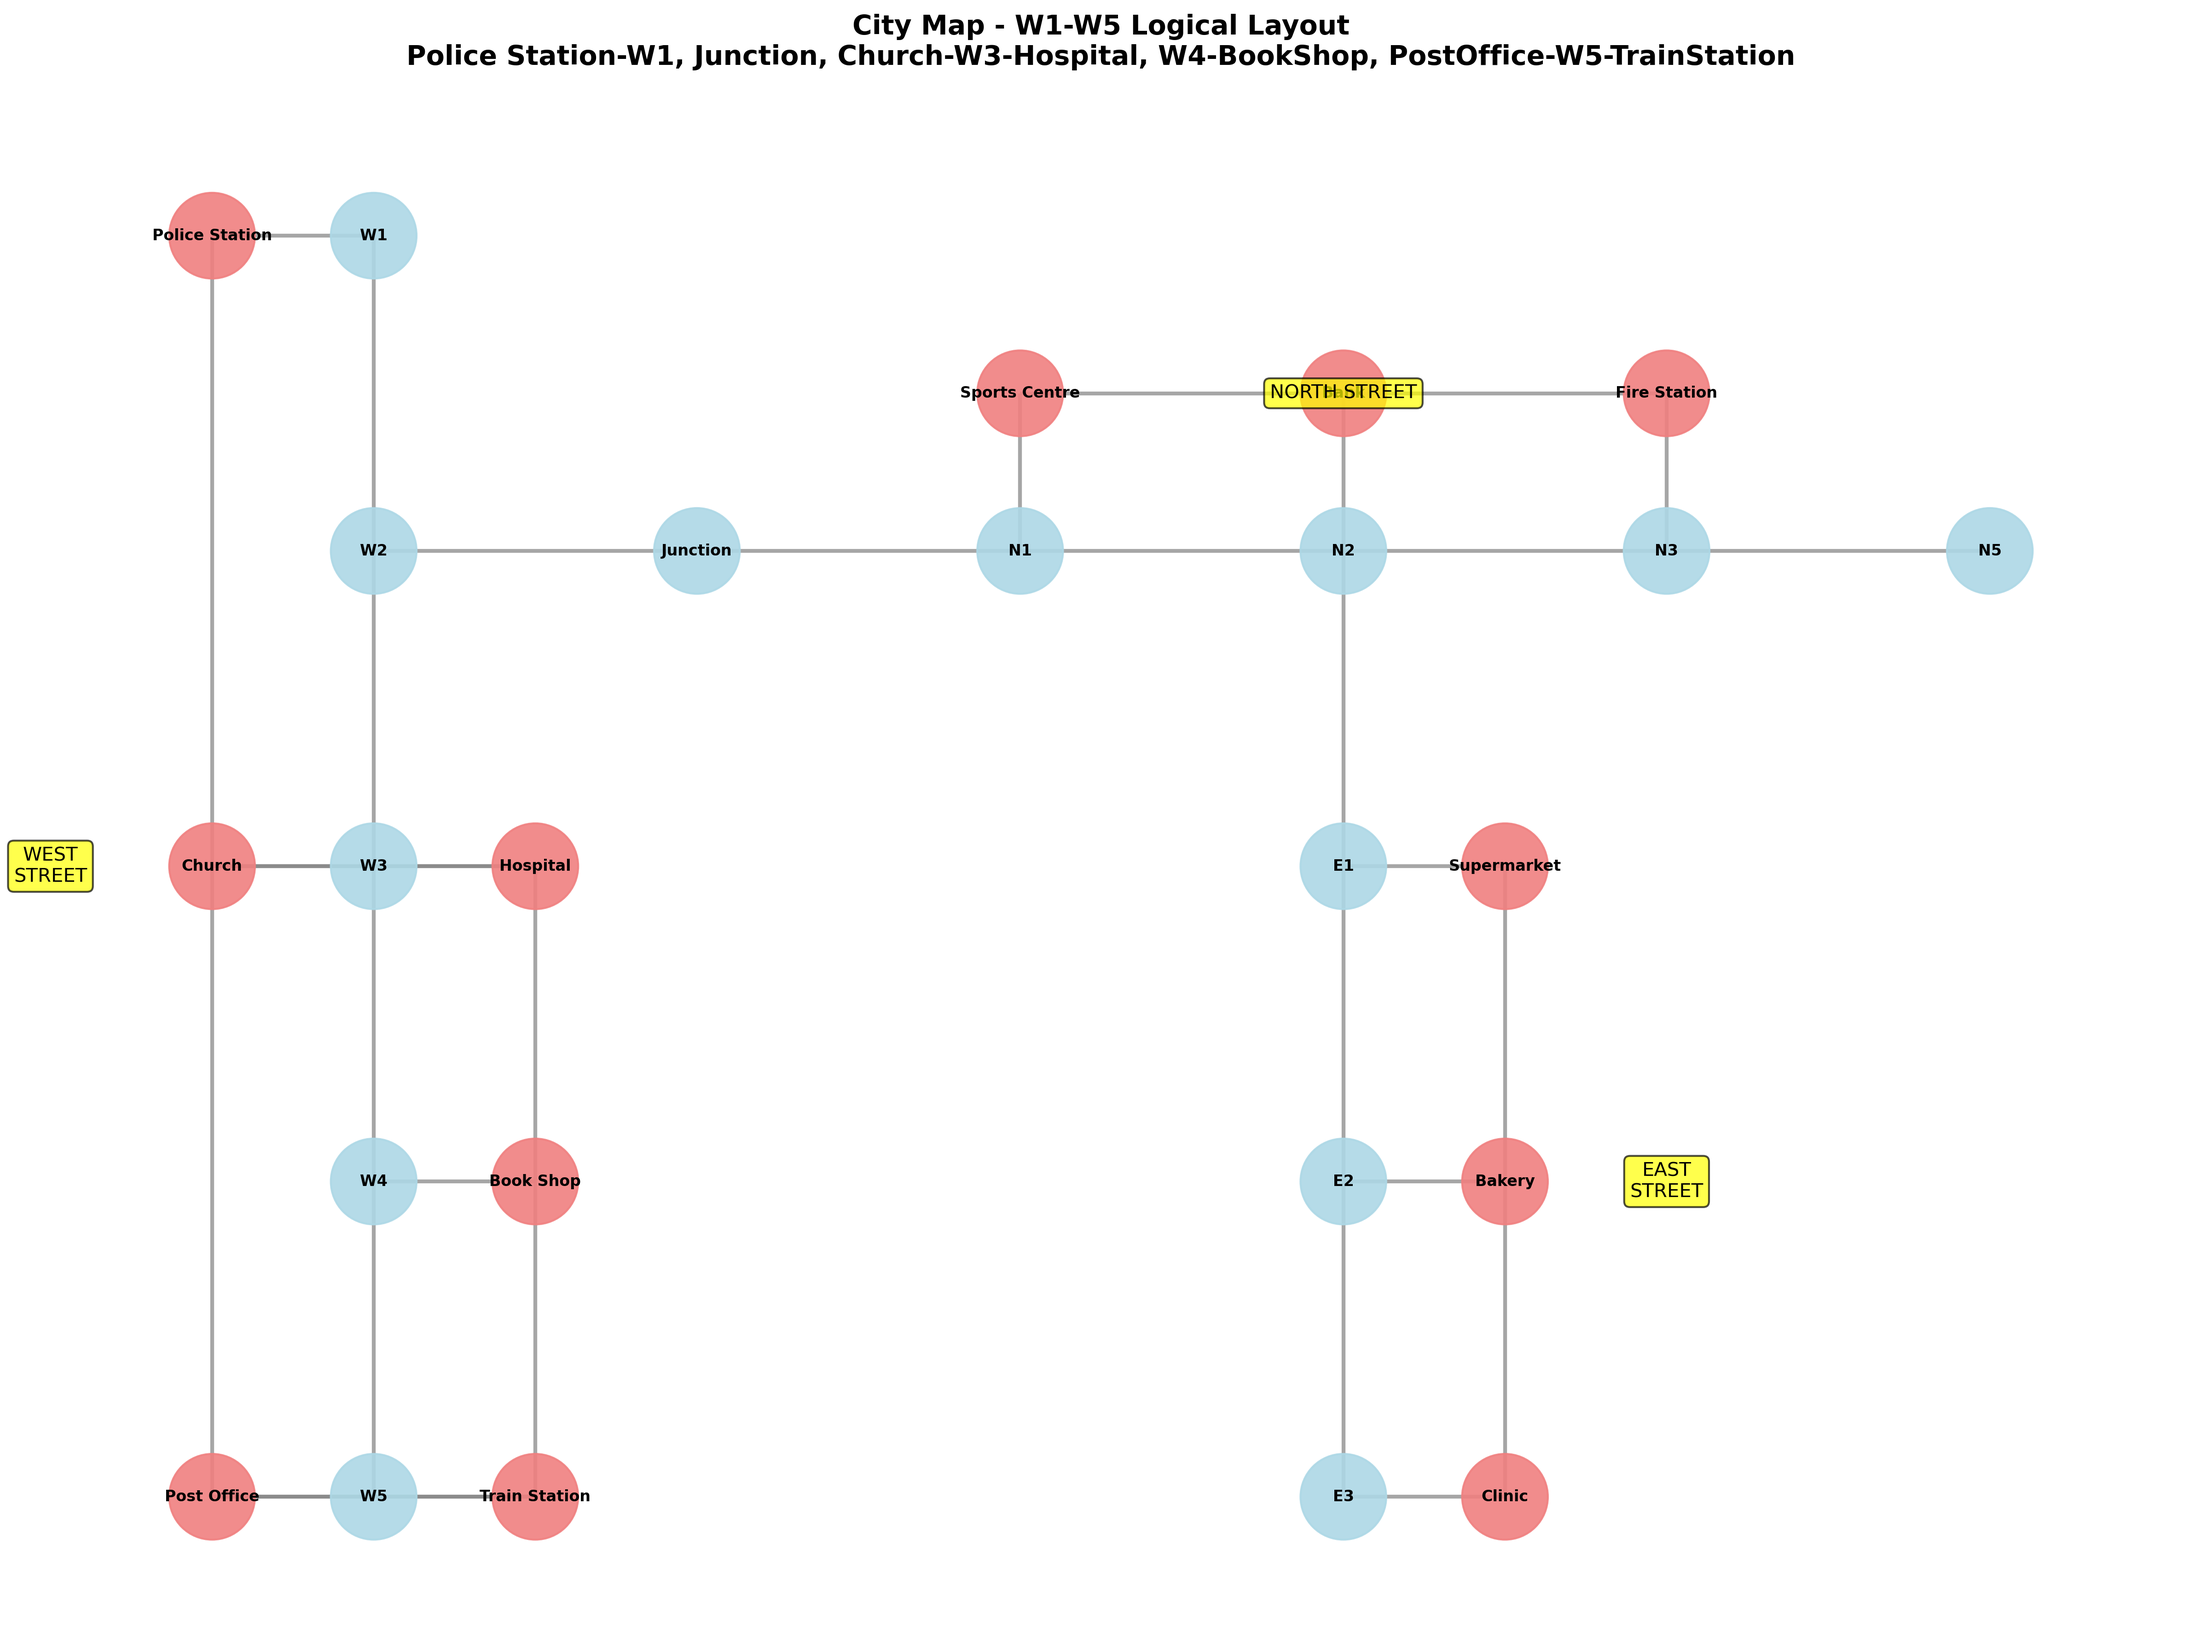
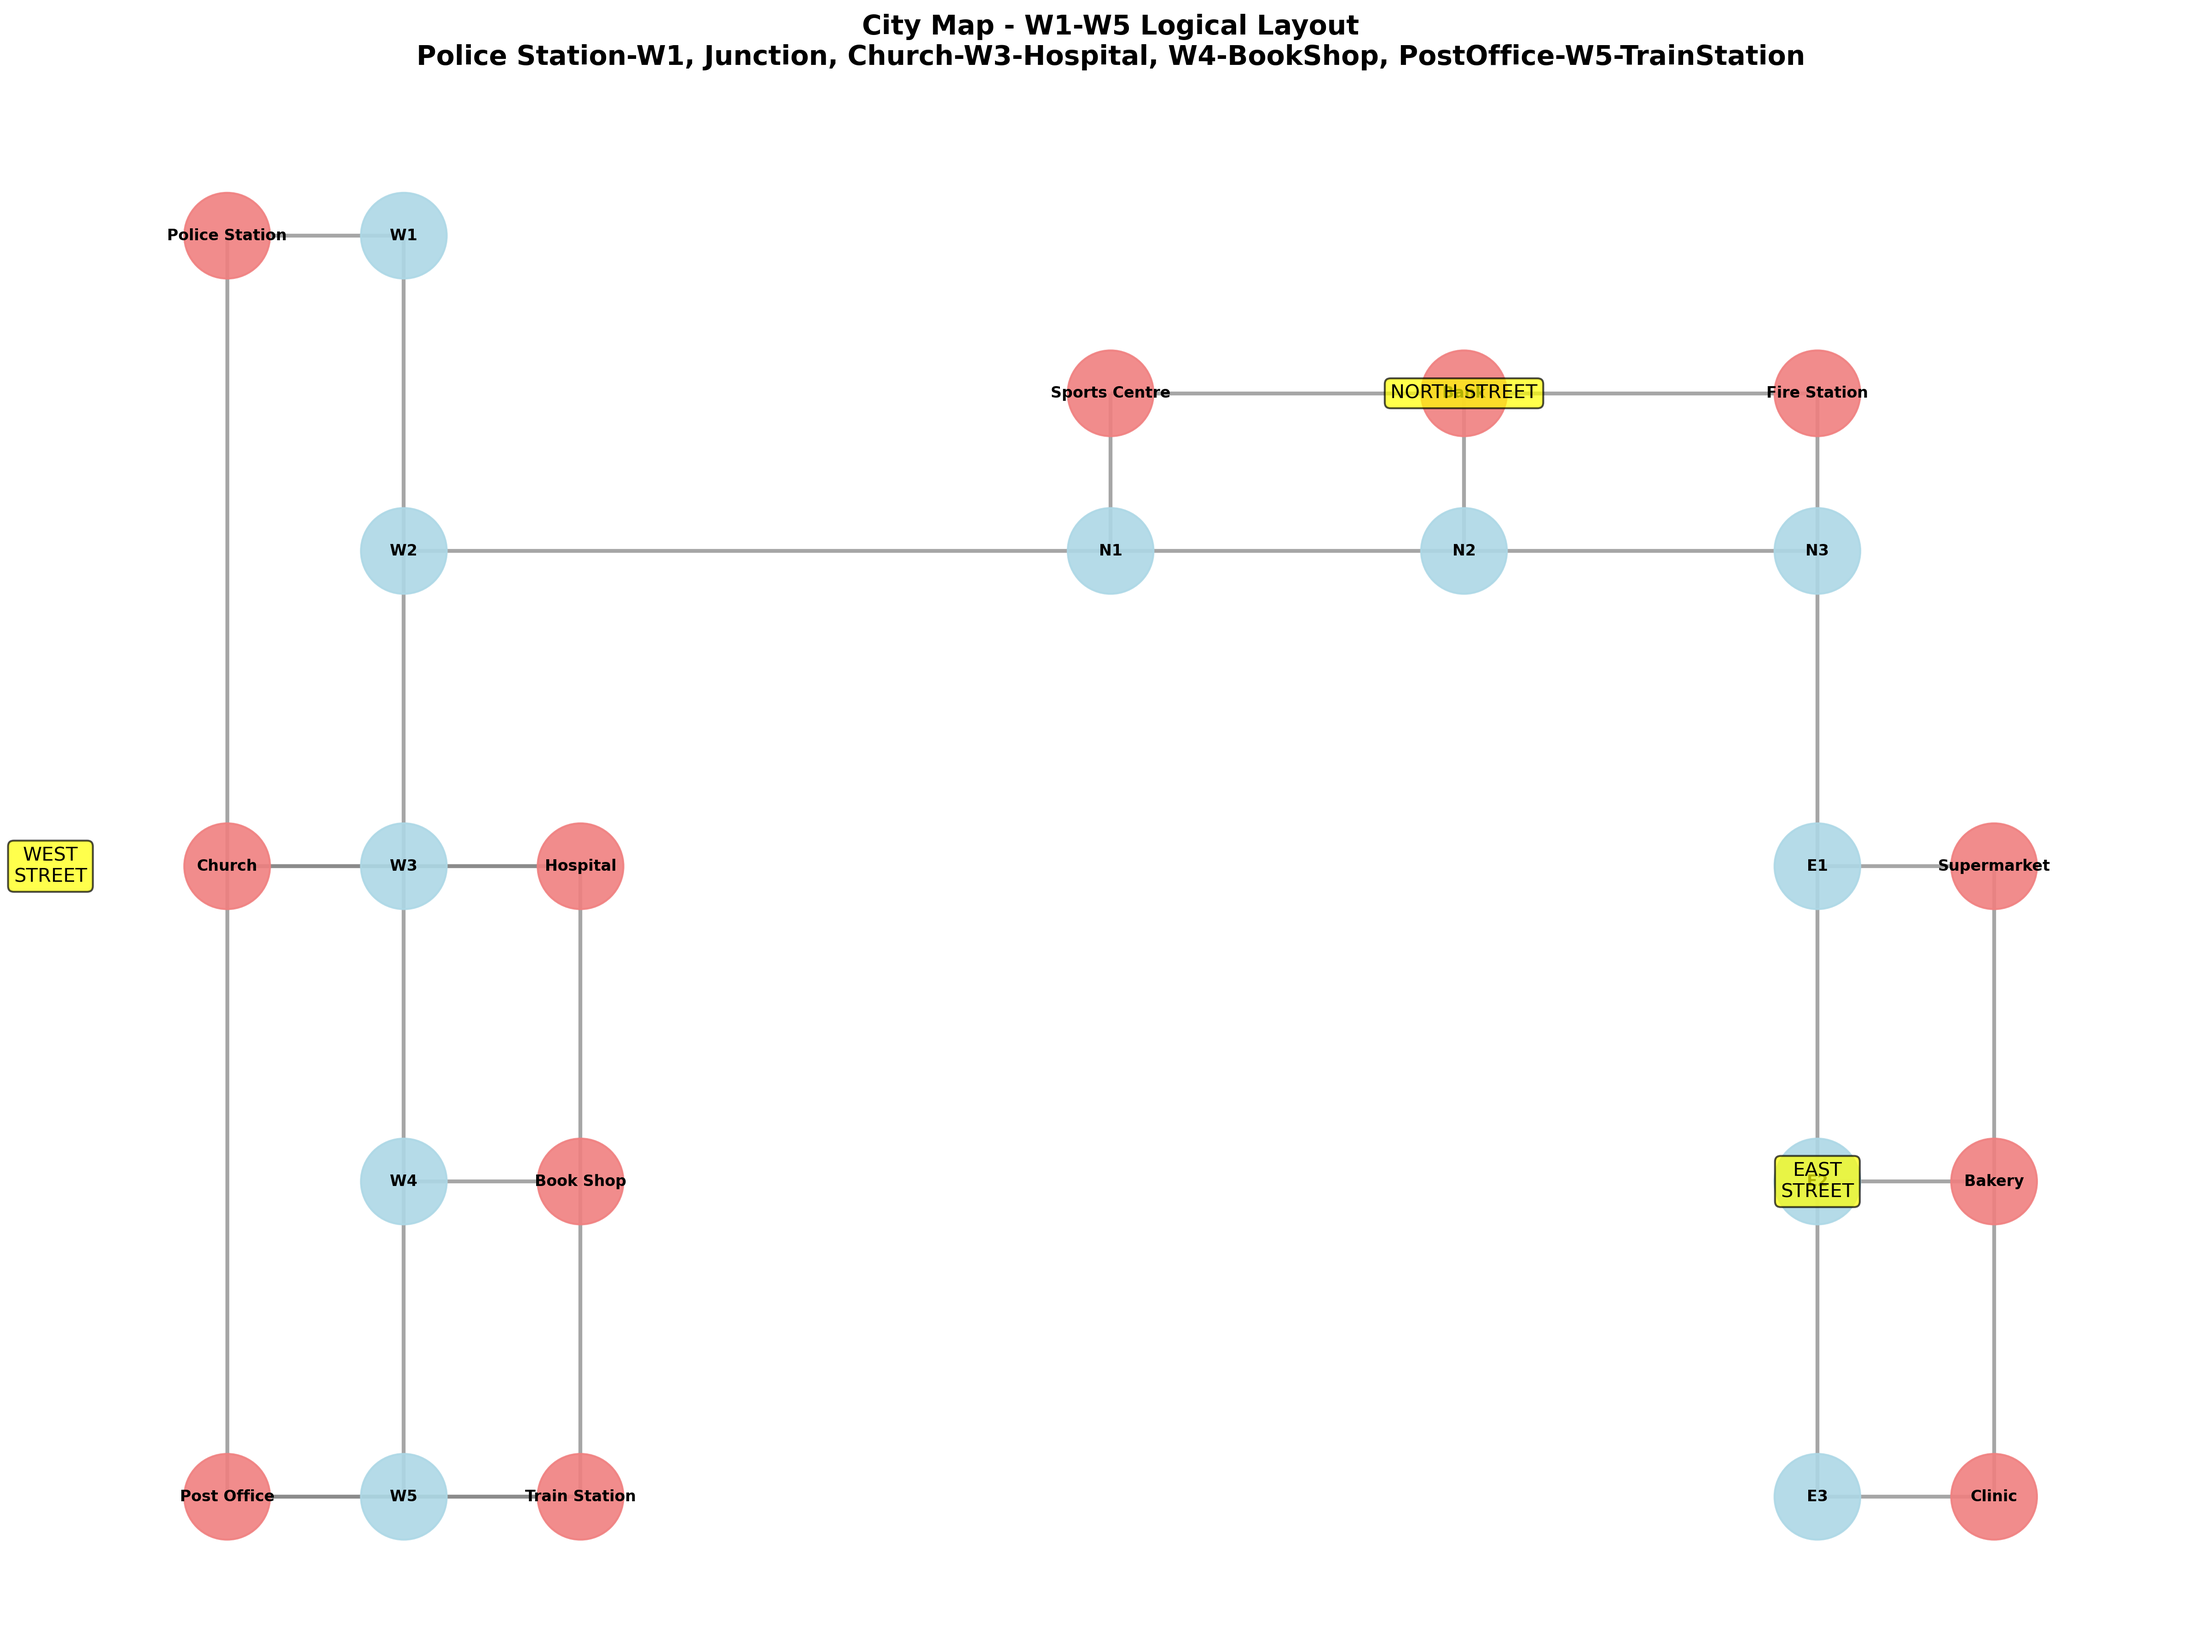
update

diff --git a/services/ToolsServer/Path/city_map.py b/services/ToolsServer/Path/city_map.py
@@ -38,66 +38,42 @@ def create_city_map():
         "Supermarket",
         "Bakery",
         "Clinic",
-        # Junction (12)
-        "Junction",
-        # West Street (13-17): W1 (North) → W2 → W3 → W4 → W5 (South)
-        "W1",
-        "W2",
-        "W3",
-        "W4",
-        "W5",
-        # North Street (18-21): N1 (West) → N2 → N3 → N5 (East)
-        "N1",
-        "N2",
-        "N3",
-        "N5",
-        # East Street (22-24): E1 (North) → E2 → E3 (South)
-        "E1",
-        "E2",
-        "E3",
+        # West Street (12-16): W1 (North) → W2 → W3 → W4 → W5 (South)
+        "W1", "W2", "W3", "W4", "W5",
+        # North Street (17-19): N1 (West) → N2 → N3 (East)
+        "N1", "N2", "N3",
+        # East Street (20-22): E1 (North) → E2 → E3 (South)
+        "E1", "E2", "E3",
     ]
 
     # Create adjacency matrix
-    N = 25  # 12 buildings + 1 junction + 12 street nodes (removed N4)
+    N = 23  # 12 buildings + 11 street nodes (removed Junction and N5)
     adj = np.zeros((N, N), dtype=int)
 
     # Building-to-street connections
     building_connections = [
         # West Street buildings
-        (0, 17),
-        (1, 17),  # Post Office, Train Station → W5
-        (2, 16),  # Book Shop → W4
-        (3, 15),
-        (4, 15),  # Hospital, Church → W3
-        (5, 13),  # Police Station → W1
+        (0, 16), (1, 16),  # Post Office, Train Station → W5
+        (2, 15),           # Book Shop → W4
+        (3, 14), (4, 14),  # Hospital, Church → W3
+        (5, 12),           # Police Station → W1
         # North Street buildings
-        (6, 18),
-        (7, 19),
-        (8, 20),  # Sports Centre → N1, Bank → N2, Fire Station → N3
+        (6, 17), (7, 18), (8, 19),  # Sports Centre → N1, Bank → N2, Fire Station → N3
         # East Street buildings
-        (9, 22),
-        (10, 23),
-        (11, 24),  # Supermarket → E1, Bakery → E2, Clinic → E3
+        (9, 20), (10, 21), (11, 22),  # Supermarket → E1, Bakery → E2, Clinic → E3
     ]
 
     # Street connections
     street_connections = [
         # West Street: W1 → W2 → W3 → W4 → W5
-        (13, 14),
-        (14, 15),
-        (15, 16),
-        (16, 17),
-        # North Street: N1 → N2 → N3 → N5 (removed N4)
-        (18, 19),
-        (19, 20),
-        (20, 21),
+        (12, 13), (13, 14), (14, 15), (15, 16),
+        # North Street: N1 → N2 → N3
+        (17, 18), (18, 19),
         # East Street: E1 → E2 → E3
-        (22, 23),
-        (23, 24),
-        # Junction connections
-        (12, 14),  # Junction ↔ W2
-        (12, 18),  # Junction ↔ N1
-        (19, 22),  # N2 ↔ E1 (North Street/East Street junction)
+        (20, 21), (21, 22),
+        # Direct connections (no junction needed)
+        (13, 17),  # W2 ↔ N1 (West/North Street connection)
+        (19, 20),  # N3 ↔ E1 (North/East Street connection)
     ]
 
     # Building-to-building adjacencies (same location or adjacent blocks)
@@ -152,11 +128,9 @@ def get_node_positions():
         "Bank": (9, 11),
         "Fire Station": (11, 11),
         # East Street buildings
-        "Supermarket": (10, 8),
-        "Bakery": (10, 6),
-        "Clinic": (10, 4),
-        # Junction
-        "Junction": (5, 10),
+        "Supermarket": (12, 8),
+        "Bakery": (12, 6),
+        "Clinic": (12, 4),
         # Street nodes
         "W1": (3, 12),
         "W2": (3, 10),
@@ -166,10 +140,9 @@ def get_node_positions():
         "N1": (7, 10),
         "N2": (9, 10),
         "N3": (11, 10),
-        "N5": (13, 10),
-        "E1": (9, 8),
-        "E2": (9, 6),
-        "E3": (9, 4),
+        "E1": (11, 8),
+        "E2": (11, 6),
+        "E3": (11, 4),
     }
 
 
@@ -346,7 +319,7 @@ def generate_navigation_instructions(G, start, end, positions):
             "",
             "✅ LAYOUT SUMMARY:",
             "• Police Station at W1 (northernmost)",
-            "• Junction connects W2 ↔ N1",
+            "• W2 connects directly to N1 (West/North Streets)",
             "• Church (WEST) and Hospital (EAST) at W3",
             "• Book Shop at W4 (EAST side)",
             "• Post Office (WEST) and Train Station (EAST) at W5",

diff --git a/services/ToolsServer/Path/LAYOUT_SPEC.md b/services/ToolsServer/Path/LAYOUT_SPEC.md
@@ -15,13 +15,15 @@
 ```
                   Sports Centre    Bank    Fire Station
                         |           |          |
-    W2 ---- Junction ---- N1 ---- N2 ---- N3 ---- N5
-     |                            |                
-    W1 (Police Station)          E1
-     |                            |
-    W3 (Church ↔ Hospital)       E2
-     |                            |
-    W4 (Book Shop)               E3
+                       N1 -------- N2 -------- N3
+                        |                       |
+    W1 (Police Station) |                      E1 -- Supermarket
+     |                  |                       |
+    W2 ------------------                      E2 -- Bakery
+     |                                          |
+    W3 (Church ↔ Hospital)                     E3 -- Clinic
+     |
+    W4 (Book Shop)
      |
     W5 (Post Office ↔ Train Station)
 ```
@@ -29,9 +31,9 @@
 ### Key Relationships
 
 1. **Police Station** is at the **northernmost** point (W1)
-2. **W2** serves as the junction connection to North Street
-3. **Junction node** acts as central hub connecting W2 ↔ N1
-4. **Sports Centre** connects vertically above N1
+2. **W2** connects directly to North Street (N1)
+3. **Sports Centre** connects vertically above N1
+4. **N3** connects directly to East Street (E1)
 5. All compass directions follow standard orientation (N/S/E/W)
 
 ### Building Placement Logic
@@ -44,7 +46,7 @@
 ### Navigation Flow
 
 - **North-South**: W1 ↔ W2 ↔ W3 ↔ W4 ↔ W5
-- **West-East**: W2 ↔ Junction ↔ N1 ↔ N2 ↔ N3 ↔ N5
-- **North-South (East)**: N2 ↔ E1 ↔ E2 ↔ E3
+- **West-East**: W2 ↔ N1 ↔ N2 ↔ N3
+- **North-South (East)**: N3 ↔ E1 ↔ E2 ↔ E3
 
 This logical layout ensures intuitive navigation with clear compass-based directions and proper building placement.
